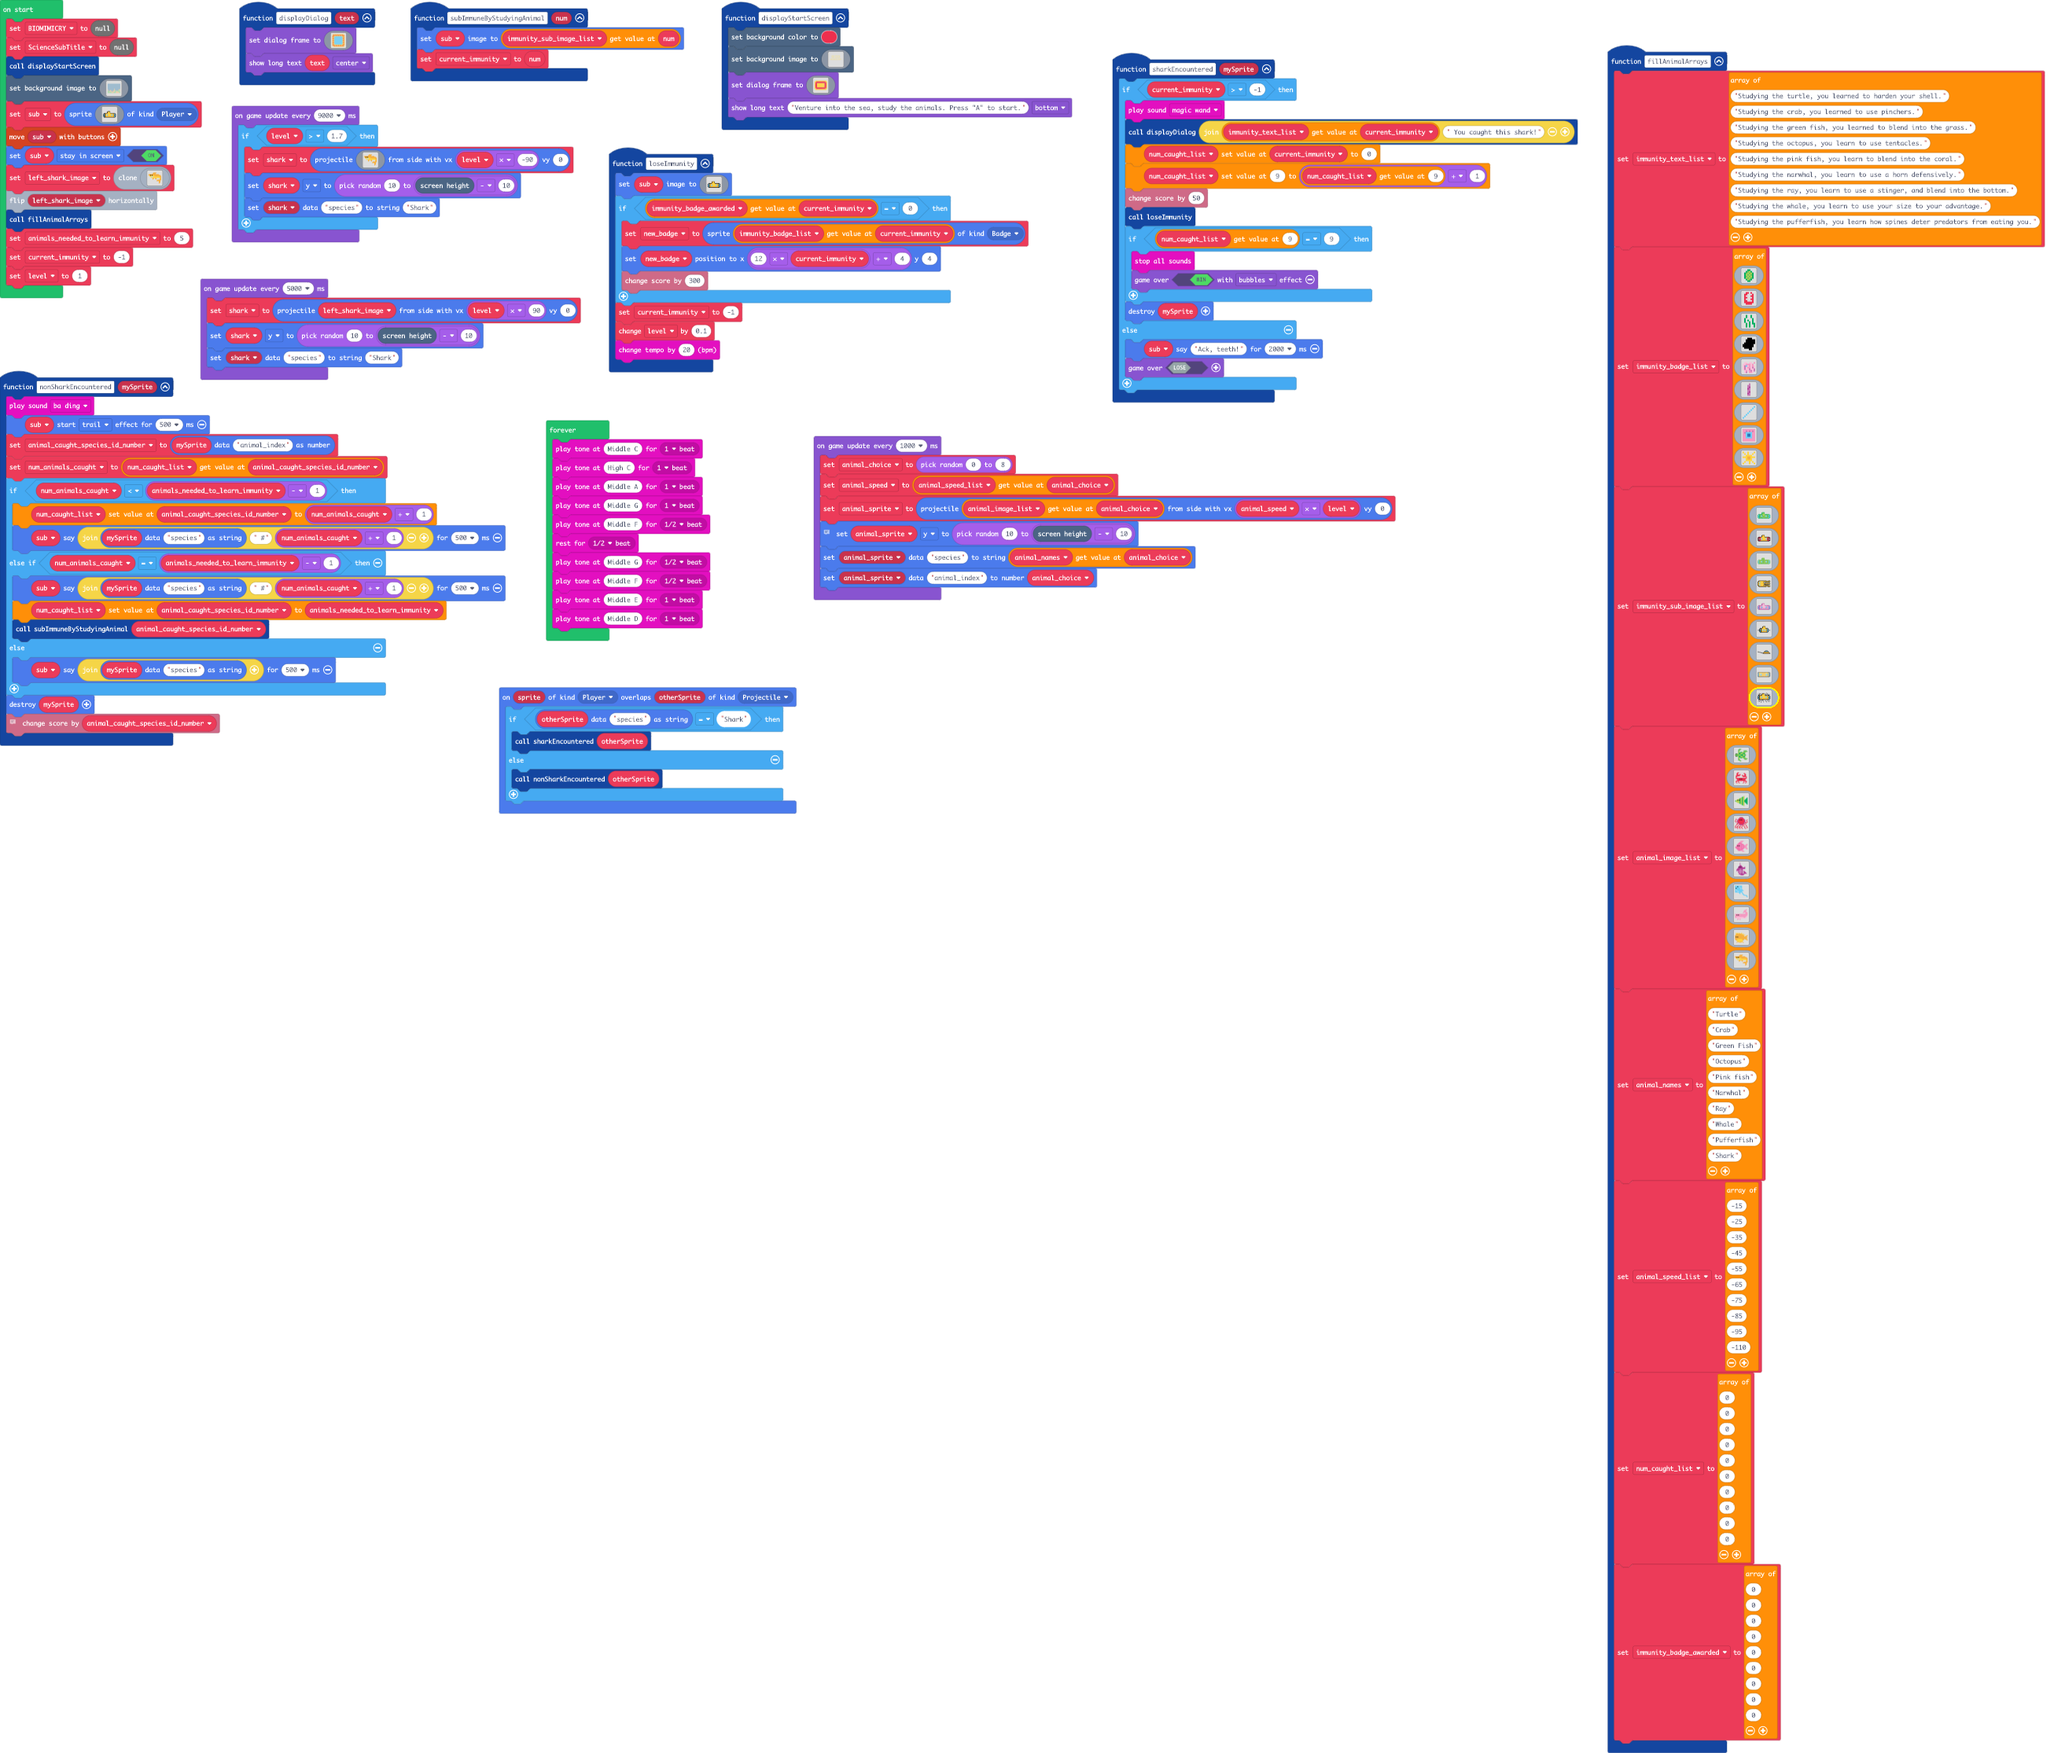
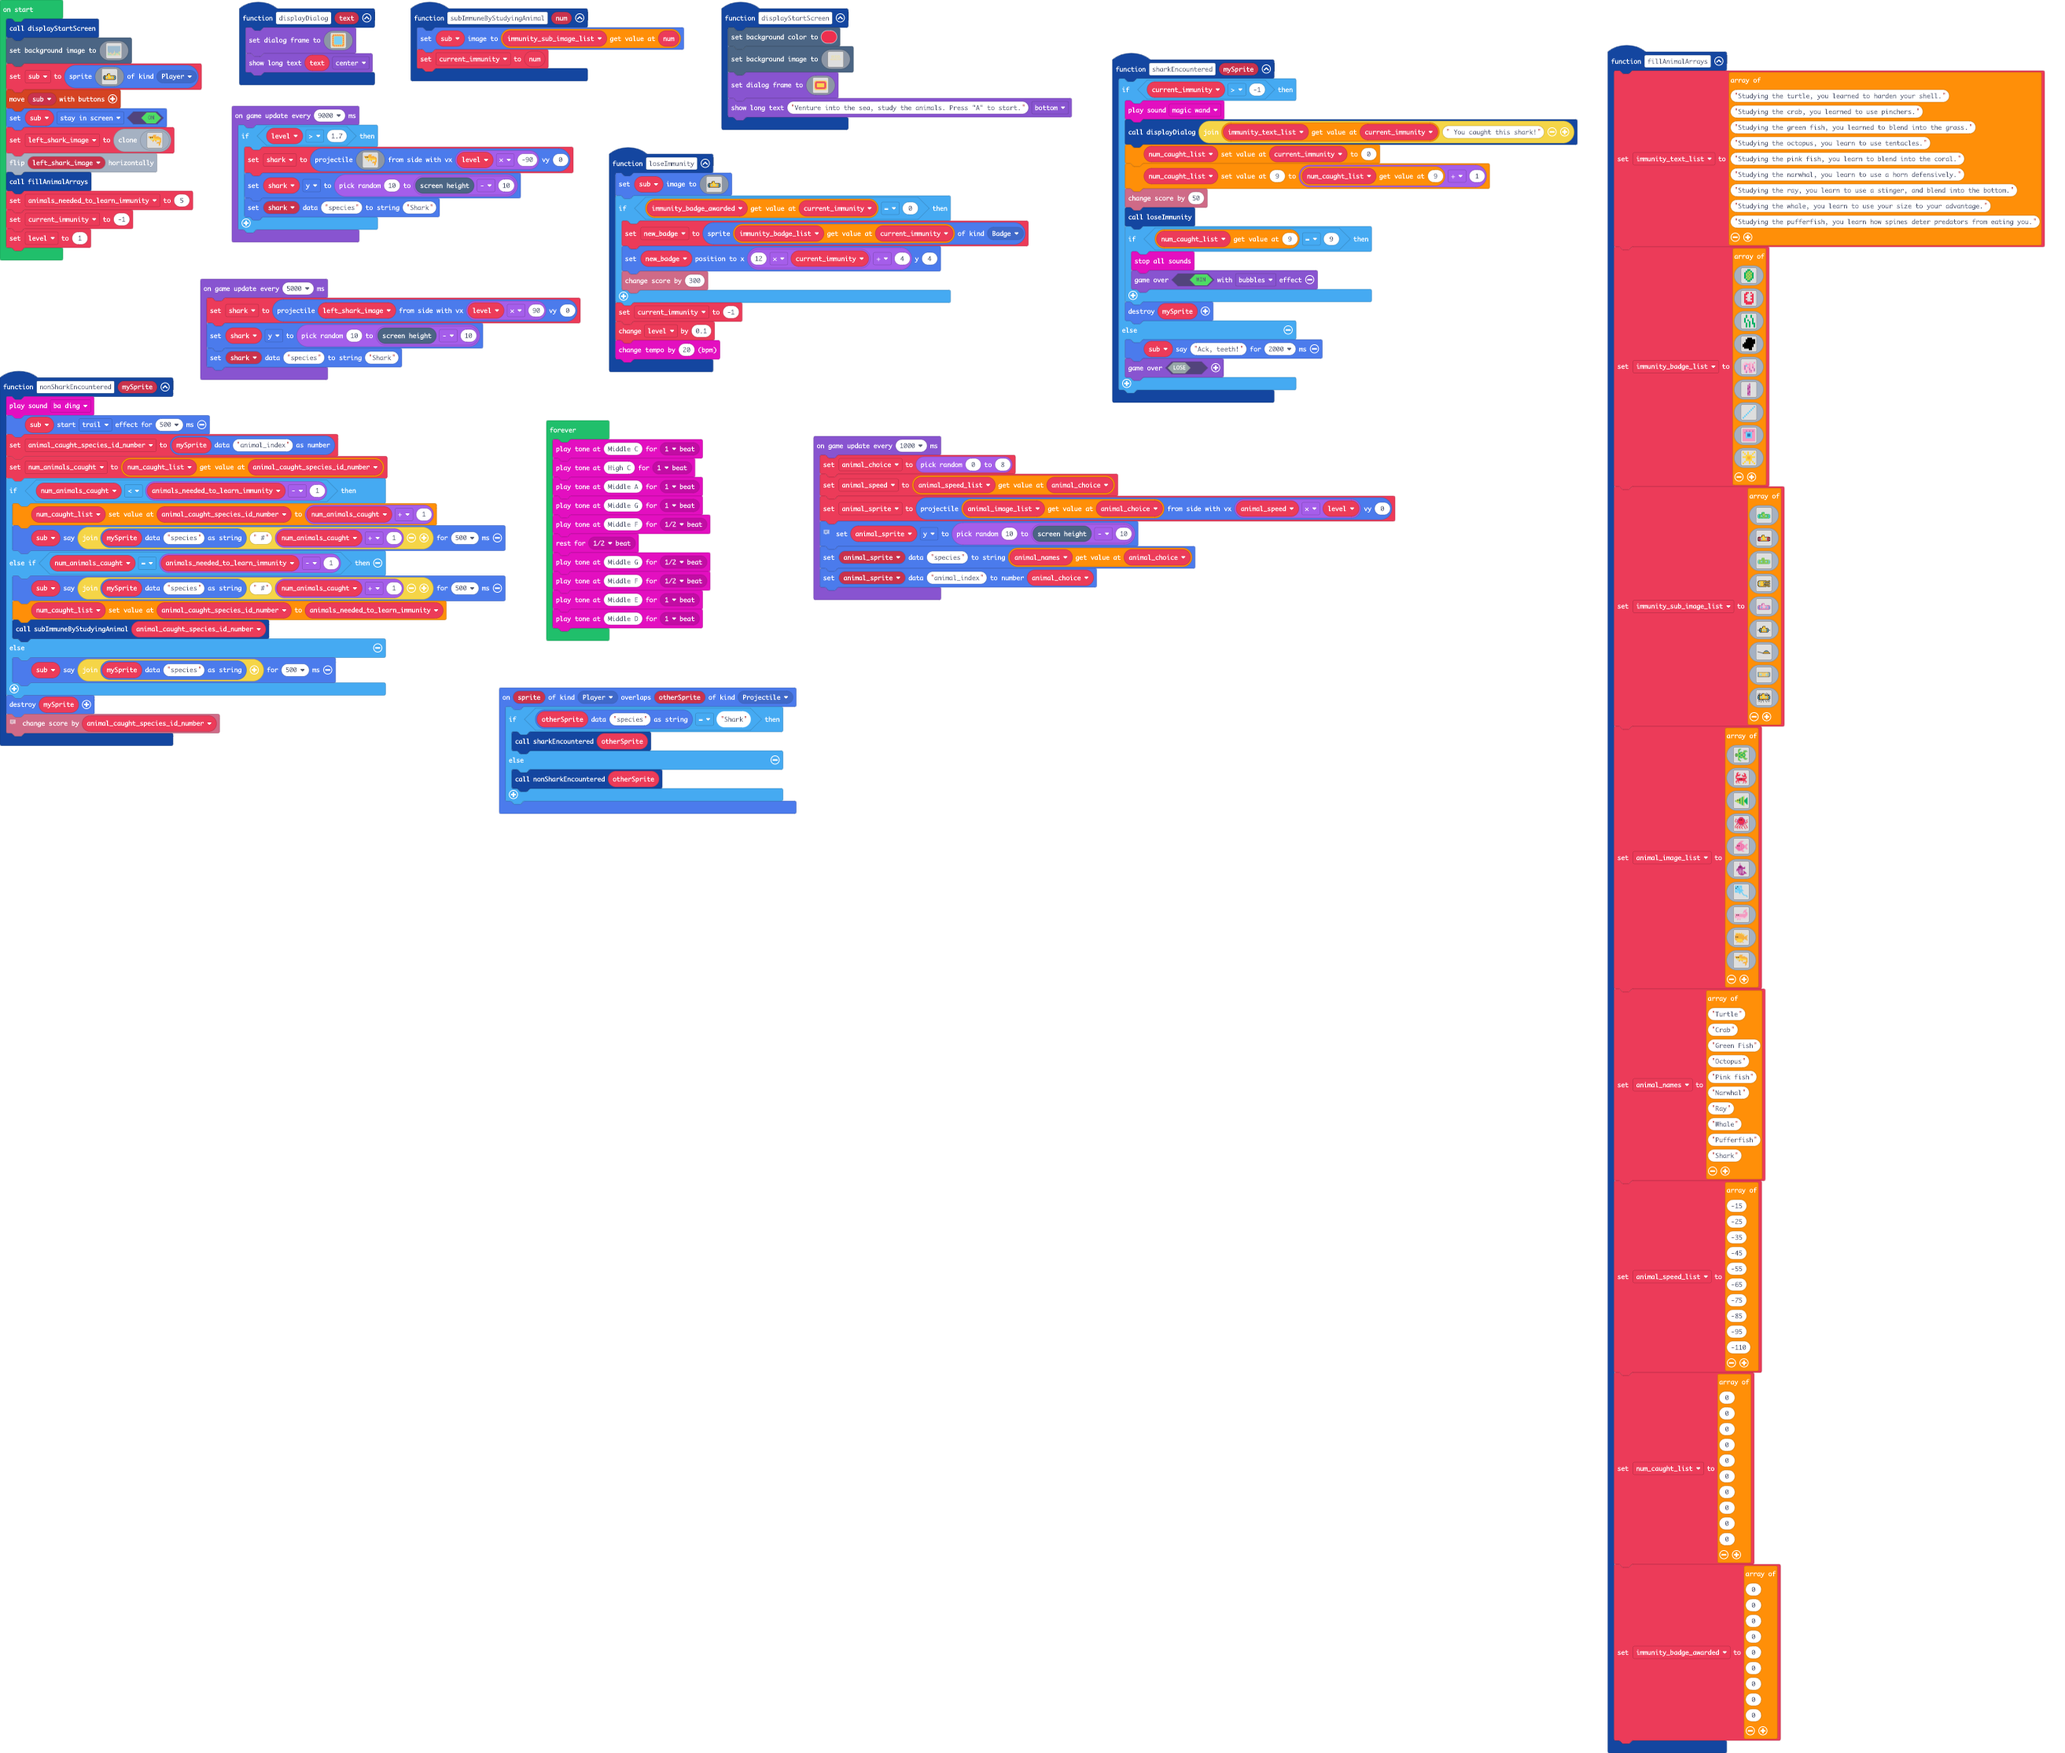
Removed block detritus from previous JS editing.

diff --git a/main.ts b/main.ts
@@ -766,8 +766,6 @@ let immunity_sub_image_list: Image[] = []
 let current_immunity = 0
 let animals_needed_to_learn_immunity = 0
 let sub: Sprite = null
-let BIOMIMICRY = null
-let ScienceSubTitle = null
 displayStartScreen()
 scene.setBackgroundImage(img`
     a a a a a a a a a a a a a a a a a a a a a a a a a a a a a a a a a a a a a a a a a a a a a a a a a a a a a a a a a a a a a a a a a a a a a a a a a a a a a a a a a a a a a a a a a a a a a a a a a a a a a a a a a a a a a a a a a a a a a a a a a a a a a a a a a a a a a a a a a a a a a a a a a a a a a a a a a a a a a a a a 
